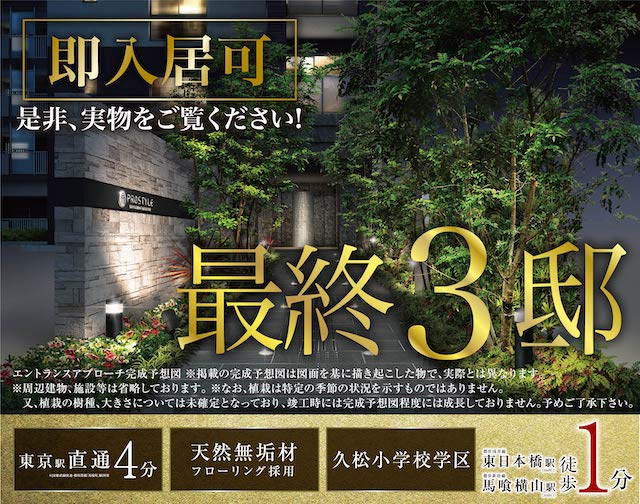
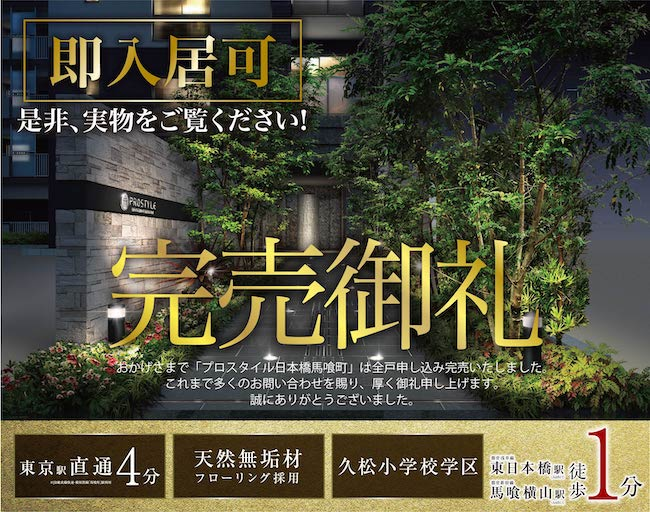
1. プロポライフ/ pls set all sold out status for "/nihonbashibakurocho"

diff --git a/prostyle-residence/www/nihonbashibakurocho/index.html b/prostyle-residence/www/nihonbashibakurocho/index.html
@@ -377,19 +377,19 @@ j=d.createElement(s),dl=l!='dataLayer'?'&l='+l:'';j.async=true;j.src=
 	<!--End Google Tag Manager (noscript)-->
 
 <script>
-$(function() {
-	$(".popupClose").click(function () {
-		$("#popUp").addClass("hidden");
-	});
-});
+// $(function() {
+// 	$(".popupClose").click(function () {
+// 		$("#popUp").addClass("hidden");
+// 	});
+// });
 </script>
-<div id="popUp">
+<!-- <div id="popUp">
 	<div class="popupViewport">
 		<img class="popupBnr" src="assets/images/top/popupBnr.jpg">
-		<!-- <p>3月21日（水）は現地モデルルームを開いております。お気軽にお立ち寄りください。</p> -->
+		<p>3月21日（水）は現地モデルルームを開いております。お気軽にお立ち寄りください。</p>
 		<img class="popupClose" src="assets/images/top/popupClose.png">
 
 	</div>
-</div>
+</div> -->
 </body>
 </html>

diff --git a/prostyle-residence/www/nihonbashibakurocho/assets/js/scripts.js b/prostyle-residence/www/nihonbashibakurocho/assets/js/scripts.js
@@ -2,6 +2,22 @@
 
 $(function() {
 
+	var pathName = window.location.pathname;
+	if (pathName == '/nihonbashibakurocho/' || pathName.indexOf('/nihonbashibakurocho/sumikae/') > -1){
+	}else{
+		window.location = "https://www.prostyle-residence.com/nihonbashibakurocho/";
+	}
+
+	var hrefNav = $('a');
+	$.each(hrefNav, function(i, e){
+		if (e.href.indexOf('sumikae') > -1){
+			console.log(e.href);
+		}else{
+			$(e).css({"cursor": "default"});
+			$(e).click(function(event){ event.preventDefault();});
+		}
+	})
+
 	var fullpage = $('#fullpage'), flg = false, body = $('body'), flg_fullpage = false,
 			fullpage_args = {
 				scrollOverflow: true,
@@ -382,7 +398,7 @@ $(function() {
 			if (0 < $('.mh').length) {
     			$('.mh').matchHeight();
 			}
-			func_popup();
+			// func_popup();
 			// func_section_rate();
 		},
 		resize: function() {
